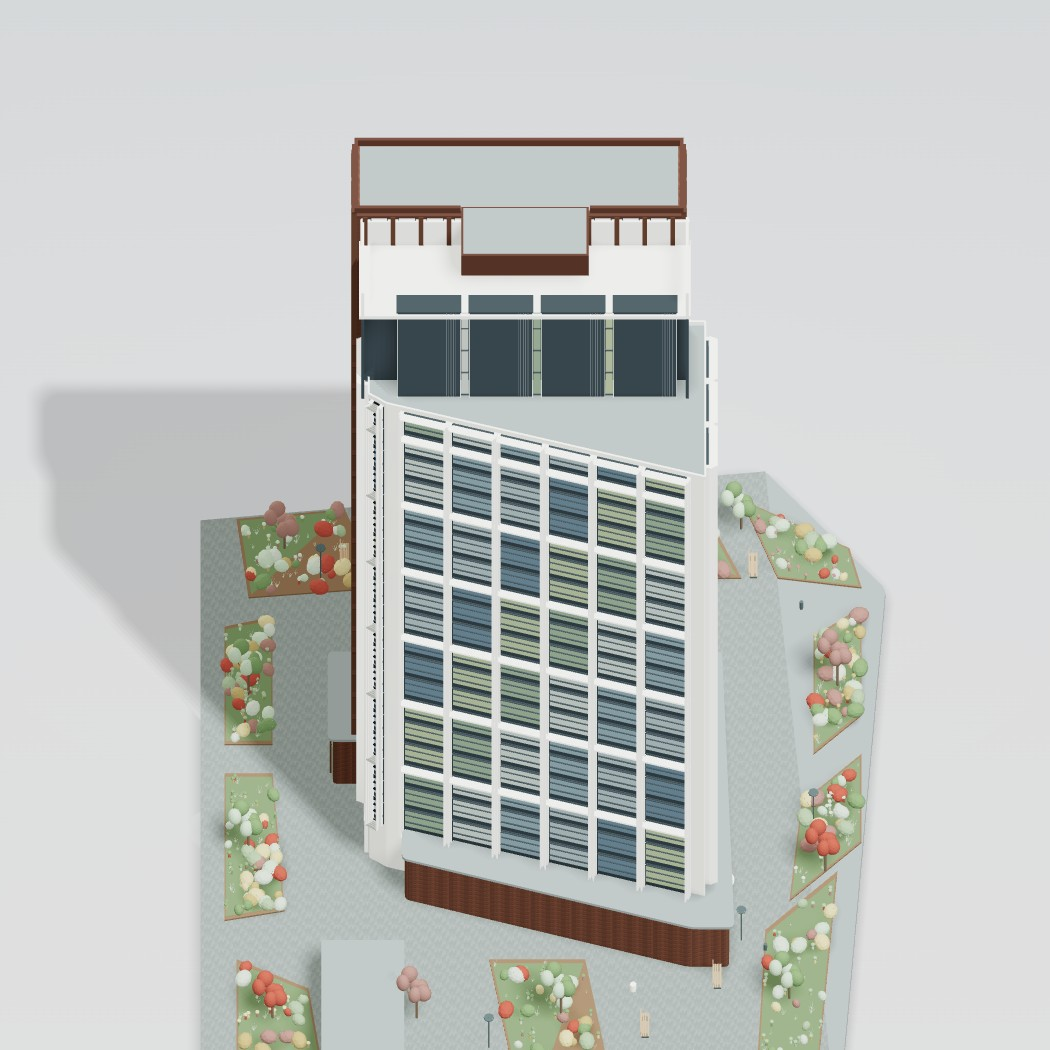
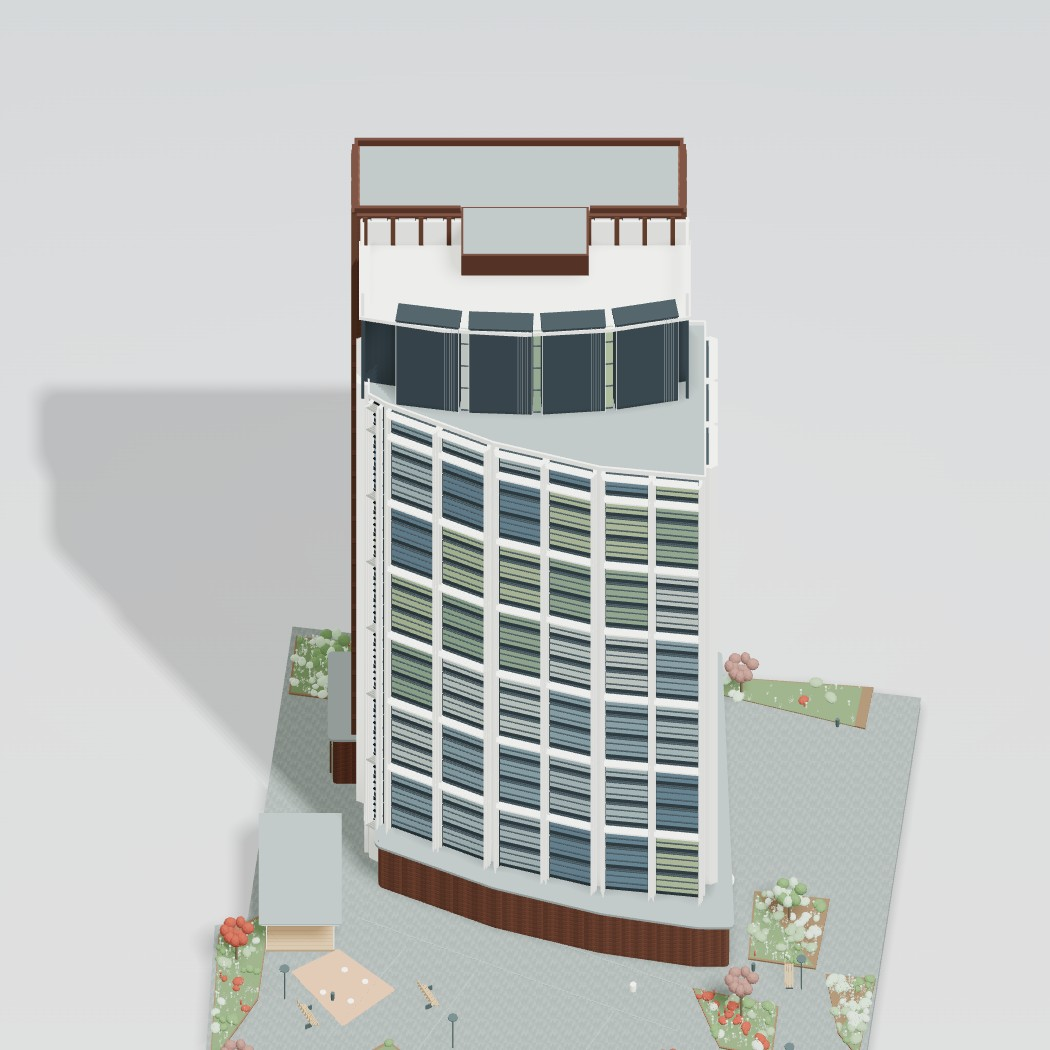
Introduce shallow facade facets, fanned upper panels and diagonal reference landscaping

Changed region(s): [[0.3048, 0.2743, 0.8838, 1.0], [0.1829, 0.4571, 0.4267, 1.0], [0.6095, 0.9752, 0.64, 1.0]]

diff --git a/assets/photo-tower-project.js b/assets/photo-tower-project.js
@@ -16,6 +16,7 @@
   const M={white:material(0xe8e8df),edge:material(0xf2f0e7),brick:material(0xffffff,{map:texture('brick'),roughness:.94}),brown:material(0x583a2e),bronze:material(0x614333),frame:material(0x3a4448),screen:material(0x3f494e),roof:material(0x899290),pave:material(0xbbc0bd,{map:texture('pave'),roughness:1}),curb:material(0x7c654c),soil:material(0x687c57),wood:material(0xaf9272),steel:material(0x52605f),light:material(0xf1f0df),trunk:material(0x73624f)};
   const glass=[0x99a9aa,0x7f949b,0xb4bdb5,0x879b82,0xa0ae87,0x647b87].map(c=>GranVisual.glass(material(c,{roughness:.32,metalness:.08})));
   const upperGlass=GranVisual.glass(material(0xd9e0da,{roughness:.28,metalness:.09}));
+  const playSurface=material(0xbd9478,{roughness:1});
   const plants=[0x6f895c,0x8ea27f,0xb4c0ad,0xa79461,0x96736a,0xa35142,0xc1b582,0xabc0a3].map(c=>material(c,{roughness:1,flatShading:true}));
   const unit=new T.BoxGeometry(1,1,1),ball=new T.IcosahedronGeometry(1,2),shrub=new T.IcosahedronGeometry(1,1),cylinder=new T.CylinderGeometry(1,1,1,8),cone=new T.ConeGeometry(1,1,6);geo.push(unit,ball,shrub,cylinder,cone);
   function stamp(G,m,x,y,z,sx,sy,sz,ry=0,q=null){let b=batches.get(G.uuid+':'+m.uuid);if(!b)batches.set(G.uuid+':'+m.uuid,b={G,m,list:[]});dummy.position.set(x,y,z);dummy.scale.set(sx,sy,sz);dummy.rotation.set(0,ry,0);if(q)dummy.quaternion.copy(q);dummy.updateMatrix();b.list.push(dummy.matrix.clone());}
@@ -28,10 +29,23 @@
   }
   function polygon(p,y,m){const G=new T.ShapeGeometry(shape(p));G.rotateX(-Math.PI/2);const a=G.attributes.position,uv=G.attributes.uv;for(let i=0;i<uv.count;i++)uv.setXY(i,a.getX(i)/2.4,a.getZ(i)/1.2);geo.push(G);const o=new T.Mesh(G,m);o.position.y=y;o.receiveShadow=true;vpm.add(o);}
   function brickBox(x,y,z,w,h,d){const G=new T.BoxGeometry(w,h,d),uv=G.attributes.uv;for(let f=0;f<6;f++){const uw=f<2?d:w,vh=f===2||f===3?d:h;for(let k=0;k<4;k++){const i=f*4+k;uv.setXY(i,uv.getX(i)*uw/2.4,uv.getY(i)*vh/1.2)}}geo.push(G);const o=new T.Mesh(G,M.brick);o.position.set(x,y,z);o.castShadow=o.receiveShadow=true;vpm.add(o);}
-  const site=[[-37,-27],[27,-27],[32,20],[20,30],[-35,26]];
+  const site=[[16.14,-19.34],[8.86,32.95],[-33.99,27.57],[-37.67,-27.14],[-14.42,-25.8],[-13.81,-23.08]];
   solid(site,-.8,.8,M.roof,.5);polygon(site,.025,M.pave);
-  const brown={x:3.5,z:-.5,w:7,d:27,f:24,y0:6.2},whitePlan=[[-8.5,-11.5],[-7.5,-13],[-.15,-13],[-.15,15],[-16,15]],FH=3.15,whiteFloors=19,whiteTop=66.05,brownTop=81.8;
-  const podium=[[0,-16],[8.8,-16],[8.8,16],[-18.7,17],[-18.7,13.5],[-11.8,-10],[0,-10]];
+  // Broad diagonal circulation and small play pad traced in the reference view.
+  const pavingJoints=[
+   [[-13.58,-13.99],[-25.23,12.66]],[[-10.62,-10.81],[-21.95,16.27]],
+   [[-25.88,-16.44],[-16.85,-10.04]],[[-29.65,-10.4],[-19.33,-4.22]],
+   [[-34.12,1.09],[-23.19,7.4]],[[-34.77,11.15],[-24.99,18.81]],
+   [[-27.26,17.68],[-29.35,27.22]]
+  ];
+  for(const [a,b] of pavingJoints){const dx=b[0]-a[0],dz=b[1]-a[1];box(M.roof,(a[0]+b[0])/2,.046,(a[1]+b[1])/2,Math.hypot(dx,dz),.025,.10,-Math.atan2(dz,dx));}
+  const playPlan=[[-19.18,-19.49],[-16.83,-15.54],[-21.02,-10.75],[-24.79,-15.17]];
+  solid(playPlan,.04,.035,playSurface,.25);
+  for(const [x,z] of [[-19,-15],[-21.3,-16.8],[-20.2,-13.3],[-22.2,-14.5]])stamp(cylinder,M.light,x,.10,z,.28,.05,.28);
+  // Three shallow facets give the white front its slight turn in plan.
+  // The brown rear bar stays straight and vertical.
+  const brown={x:3.5,z:-.5,w:7,d:27,f:24,y0:6.2},whitePlan=[[-8.5,-11.5],[-7.5,-13],[-.15,-13],[-.15,15],[-16,15],[-15,6.2],[-12.5,-2.6]],FH=3.15,whiteFloors=19,whiteTop=66.05,brownTop=81.8;
+  const podium=[[0,-16],[8.8,-16],[8.8,16],[-18.7,17],[-18.7,14],[-17.3,6.2],[-14.7,-2.6],[-10.5,-12.2],[0,-12.2]];
   solid(podium,.12,5.95,M.brick,.42);solid(podium.map(([x,z])=>[x*1.025,z*1.025]),6.12,.3,M.roof,.50);
   brickBox(brown.x,brown.y0+brown.f*FH/2,brown.z,brown.w,brown.f*FH,brown.d);
   solid(whitePlan,.12,whiteTop-.12,M.white,.18);
@@ -39,7 +53,7 @@
   polygon(whitePlan,whiteTop+.025,M.roof);
   whitePlan.forEach((a,i)=>{const b=whitePlan[(i+1)%whitePlan.length],dx=b[0]-a[0],dz=b[1]-a[1],L=Math.hypot(dx,dz);box(M.white,(a[0]+b[0])/2,whiteTop+.26,(a[1]+b[1])/2,L,.5,.18,-Math.atan2(dz,dx));});
   const brownPlan=[[0,-14],[7,-14],[7,13],[0,13]];
-  function windows(plan,floors,start,brownFacade){plan.forEach((a,i)=>{const b=plan[(i+1)%plan.length],dx=b[0]-a[0],dz=b[1]-a[1],L=Math.hypot(dx,dz),nx=dz/L,nz=-dx/L,angle=-Math.atan2(dz,dx),margin=brownFacade?.7:1.25,n=Math.max(1,Math.floor((L-2*margin)/(brownFacade?2.25:4.1))),pitch=(L-2*margin)/n;
+  function windows(plan,floors,start,brownFacade){plan.forEach((a,i)=>{const b=plan[(i+1)%plan.length],dx=b[0]-a[0],dz=b[1]-a[1],L=Math.hypot(dx,dz),nx=dz/L,nz=-dx/L,angle=-Math.atan2(dz,dx),frontFacet=!brownFacade&&i>=4,margin=brownFacade?.7:frontFacet?.22:1.25,n=frontFacet?2:Math.max(1,Math.floor((L-2*margin)/(brownFacade?2.25:4.1))),pitch=(L-2*margin)/n;
    for(let j=0;j<n;j++){const t=(margin+(j+.5)*pitch)/L,x=a[0]+dx*t,z=a[1]+dz*t,ww=pitch-(brownFacade?.95:.65);
     for(let f=0;f<floors;f++){const y=start+f*FH+FH/2,gm=brownFacade&&f>=19?upperGlass:glass[(j+Math.floor(f/3)+i)%glass.length];box(gm,x+nx*.10,y,z+nz*.10,ww,FH-.28,.14,angle);
      for(const k of [-1,1]){const px=x+dx/L*k*ww/2,pz=z+dz/L*k*ww/2;box(M.frame,px+nx*.16,y,pz+nz*.16,.055,FH-.20,.20,angle);box(M.frame,x+nx*.16,y+k*(FH-.28)/2,z+nz*.16,ww+.10,.055,.20,angle);}
@@ -78,30 +92,37 @@
   // This is an enclosed upper storey, not a canopy over an open recess.
   // Keep the dark front panels/glazed slots exposed, close the core and ends.
   const upperBase=whiteTop,upperCeiling=77.4,upperHeight=upperCeiling-upperBase;
-  box(M.screen,-2.85,upperBase+upperHeight/2,0,5.9,upperHeight,27.0);
+  const bow=z=>-1.8*(1-(z/14)**2),turn=z=>Math.atan(3.6*z/196);
+  const curvedEdge=(x,extent)=>[-extent,-7,0,7,extent].map(z=>[x+bow(z),z]);
+  solid([...curvedEdge(-5.8,13.5),[.1,13.5],[.1,-13.5]],upperBase,upperHeight,M.screen);
   for(const z of [-13.5,13.5])box(M.screen,-3.8,upperBase+upperHeight/2,z,7.8,upperHeight,.25);
-  const shoulder=[[-7.7,-13.8],[.1,-13.8],[.1,13.8],[-7.7,13.8]];
+  const shoulder=[...curvedEdge(-7.7,13.8),[.1,13.8],[.1,-13.8]];
   solid(shoulder,77.4,.45,M.white);
   box(M.white,-.30,79.5,0,.30,3.3,27.4);
   for(const z of [-13.5,13.5])box(M.white,-3.8,79.5,z,7.8,3.3,.25);
   const roofBlades=[];
   for(let j=0;j<4;j++){
-   const x=-6.65,z=-8+j*6,h=12.0,top=whiteTop+h;roofBlades.push({x,z,top});
-   box(M.screen,x,whiteTop+h/2,z,1.7,h,5.3);
-   box(M.frame,x,top+.06,z,1.78,.12,5.38);
+   const z=-8+j*6,x=-6.65+bow(z),a=turn(z),h=12.0,top=whiteTop+h;roofBlades.push({x,z,top,angle:a});
+   const panelBox=(m,lx,y,lz,w,hh,d)=>box(m,x+Math.cos(a)*lx+Math.sin(a)*lz,y,z-Math.sin(a)*lx+Math.cos(a)*lz,w,hh,d,a);
+   panelBox(M.screen,0,whiteTop+h/2,0,1.7,h,5.3);
+   panelBox(M.frame,0,top+.06,0,1.78,.12,5.38);
    // Broad dark planes with a cluster of thin vertical ribs on one edge.
-   for(const off of [1.45,1.65,1.85,2.05,2.25])box(M.roof,x-.88,whiteTop+h/2,z+off,.035,h,.035);
-   for(const side of [-1,1])box(M.edge,x-.94,whiteTop+h/2,z+side*2.62,.10,h,.055);
-   if(j<3){const gz=z+3;box(glass[(j+2)%glass.length],x-.75,whiteTop+h/2,gz,.10,h-.3,.62);for(let y=whiteTop+.3;y<top;y+=3.15)box(M.frame,x-.84,y,gz,.12,.065,.64);}
+   for(const off of [1.45,1.65,1.85,2.05,2.25])panelBox(M.roof,-.88,whiteTop+h/2,off,.035,h,.035);
+   for(const side of [-1,1])panelBox(M.edge,-.94,whiteTop+h/2,side*2.62,.10,h,.055);
+   if(j<3){const gz=z+3,gx=-7.4+bow(gz),ga=turn(gz);box(glass[(j+2)%glass.length],gx,whiteTop+h/2,gz,.10,h-.3,.62,ga);for(let y=whiteTop+.3;y<top;y+=3.15)box(M.frame,gx-.09,y,gz,.12,.065,.64,ga);}
   }
   // Angular planted beds, cut by the paved circulation network.
   const beds=[
-   [[-35,-24],[-18,-24],[-21,-18],[-35,-16]], [[-35,-14],[-31,-16],[-31,-6],[-35,-3]],
-   [[-35,0],[-18,-3],[-18,5],[-35,8]], [[-35,19],[-15,20],[-9,26],[-34,24]],
-   [[-12,22],[-2,23],[3,28],[-6,28]], [[3,24],[15,24],[18,28],[7,28]],
-   [[21,21],[29,18],[24,27],[20,28]], [[21,5],[29,2],[30,14],[21,18]],
-   [[21,-9],[29,-12],[30,-1],[21,2]], [[19,-23],[27,-24],[28,-15],[20,-12]],
-   [[-14,-25],[1,-25],[1,-21],[-13,-20]], [[4,-25],[16,-25],[17,-21],[4,-21]]
+   [[-15.45,-25.51],[-13.04,-21.16],[-22.04,-22.19],[-28.98,-26.24]],
+   [[-30.76,-26.07],[-29.21,-21.01],[-35.65,-17.62],[-36.88,-26.84]],
+   [[-29.66,-16.17],[-26.33,-11.39],[-32.57,-4.5],[-35.98,-6.02],[-36.43,-15.09]],
+   [[-32.51,-3.55],[-29.41,1.28],[-33.31,7.14],[-35.4,4.93],[-36.04,-4.12]],
+   [[-33.09,7.51],[-28.64,12.15],[-32.85,19.07],[-34.62,18.71],[-35.49,6.45]],
+   [[-20.9,13.93],[-22.82,21.1],[-28.05,20.55],[-26.97,16.14]],
+   [[-11.03,19.07],[-11.84,25.37],[-18.95,24.18],[-17.92,18.55]],
+   [[15,-19.05],[14.07,-12.55],[8.1,-12.79],[9.2,-19.66]],
+   [[13.2,-10.5],[9.8,29],[5.6,28.3],[9.2,16],[10.2,-10.5]],
+   [[-25.5,26],[-19.5,25],[-20,29.2],[-28,27.7]]
   ];
   function inside(x,z,p){let yes=false;for(let i=0,j=p.length-1;i<p.length;j=i++){const a=p[i],b=p[j];if((a[1]>z)!==(b[1]>z)&&x<(b[0]-a[0])*(z-a[1])/(b[1]-a[1])+a[0])yes=!yes;}return yes;}
   let seed=292;const rnd=()=>{seed=seed*16807%2147483647;return(seed-1)/2147483646};
@@ -110,19 +131,19 @@
   const blades=new T.BufferGeometry();blades.setAttribute('position',new T.Float32BufferAttribute(bladePos,3));blades.computeVertexNormals();geo.push(blades);const grass=material(0xb8c1ae,{side:T.DoubleSide,roughness:1});
   beds.forEach((p,bi)=>{solid(p,.04,.18,M.curb);const cx=p.reduce((s,v)=>s+v[0],0)/p.length,cz=p.reduce((s,v)=>s+v[1],0)/p.length,inner=p.map(([x,z])=>[cx+(x-cx)*.95,cz+(z-cz)*.95]);polygon(inner,.23,M.soil);
    const xs=p.map(v=>v[0]),zs=p.map(v=>v[1]),xmin=Math.min(...xs),xmax=Math.max(...xs),zmin=Math.min(...zs),zmax=Math.max(...zs);
-   for(let i=0;i<125;i++){const x=xmin+rnd()*(xmax-xmin),z=zmin+rnd()*(zmax-zmin);if(!inside(x,z,inner))continue;const sc=.35+rnd()*.55;
-    if(i%3===0)stamp(blades,grass,x,.24,z,sc*1.4,sc*1.7,sc*1.4,rnd()*Math.PI*2);
-    else if(i%3===1)stamp(shrub,plants[(bi+i)%plants.length],x,.35+sc*.35,z,sc,.25+sc*.5,sc*.8,rnd()*6.28);
-    else {stamp(cone,plants[(bi+i)%plants.length],x,.5,z,.15,.55+rnd()*.35,.15);stamp(shrub,plants[(bi+6)%plants.length],x,.82,z,.19,.12,.18);}
+   for(let i=0;i<320;i++){const x=xmin+rnd()*(xmax-xmin),z=zmin+rnd()*(zmax-zmin);if(!inside(x,z,inner))continue;const sc=.28+rnd()*.35,patch=(Math.floor((x-cx)/1.8)+Math.floor((z-cz)/1.8)+bi*3+64)%8;
+    if(i%5<3)stamp(blades,grass,x,.24,z,sc*1.5,sc*1.9,sc*1.5,rnd()*Math.PI*2);
+    else if(i%5===3)stamp(shrub,plants[[0,1,2,7,0,2,5,1][patch]],x,.27+sc*.3,z,sc,.14+sc*.35,sc*.8,rnd()*6.28);
+    else {const hh=.4+rnd()*.35;stamp(cone,plants[patch===6?5:7],x,.24+hh/2,z,.10,hh,.10);stamp(shrub,plants[patch===6?5:2],x,.24+hh,z,.11,.07,.11);}
    }
   });
   // Mixed green and autumn trees with visible trunks/branches and multiple crown masses.
-  const trees=[[-24,-21],[-24,-9],[-24,3],[-22,22],[-9,25],[10,26],[26,18],[25,8],[25,-5],[24,-20],[-7,-23],[9,-23]];
+  const trees=[[-18,-24],[-31,-24],[-33,-13],[-33,-1],[-32,12],[-24,18],[-14,22],[11,-16],[11,2],[9,18]];
   trees.forEach(([x,z],i)=>{const h=3.0+(i%3)*.65;branch([x,.25,z],[x,h,z],.10);
-   for(let j=0;j<7;j++){const a=j*2.399,rad=.45+(j%3)*.35,ex=x+Math.cos(a)*rad,ez=z+Math.sin(a)*rad,ey=h+(j%3)*.5;branch([x,h*.65,z],[ex,ey,ez],.035);stamp(ball,plants[i%4===0?5:(i%4===1?4:(j%2?0:7))],ex,ey+.45,ez,.55+(j%2)*.16,.85,.62,j);}
+   for(let j=0;j<12;j++){const a=j*2.399,rad=.35+(j%3)*.32,ex=x+Math.cos(a)*rad,ez=z+Math.sin(a)*rad,ey=h+(j%3)*.45;branch([x,h*.65,z],[ex,ey,ez],.025);stamp(shrub,plants[i%4===0?5:(i%4===1?4:(j%2?0:7))],ex,ey+.3,ez,.42+(j%2)*.13,.60,.47,j);}
   });
   // Pergola/play pavilion: slim posts, layered roof, timber platform, hanging white rings.
-  const px=-24.5,pz=-13.5;
+  const px=-11.5,pz=-18.7;
   for(let i=0;i<28;i++)box(M.wood,px-5.4+i*.4,.18,pz,.37,.25,5.7);
   for(const x of [px-5.5,px,px+5.5])for(const z of [pz-2.8,pz+2.8])box(M.light,x,2.05,z,.09,3.8,.09);
   for(const x of [px-2.8,px+2.8]){box(M.roof,x,4.02,pz,5.8,.10,6.9);box(M.light,x,3.91,pz,5.8,.08,6.6);}
@@ -133,12 +154,12 @@
   for(const [x,z] of [[-14,13],[-12,15],[-10,17]])stamp(ball,M.light,x,.4,z,.65,.35,.45);
   for(const [x,z] of [[-28,14],[-17,15],[-21,9]])stamp(cylinder,M.light,x,.45,z,.28,.8,.28);
   function bench(x,z,angle=0){for(let j=0;j<5;j++)box(M.wood,x,.65,z+(j-2)*.14,2.4,.08,.12,angle);for(const d of [-.9,.9])box(M.steel,x+d,.35,z,.08,.6,.6,angle);for(let j=0;j<3;j++)box(M.wood,x,1.0+j*.13,z-.36,2.4,.10,.08,angle);}
-  bench(-20,16);bench(-25,10);bench(22,19);bench(23,-15);
-  for(const [x,z] of [[-16,18],[-27,-3],[21,-17],[22,12],[-4,24]]){stamp(cylinder,M.steel,x,2.3,z,.055,4.3,.055);stamp(cylinder,M.steel,x,4.46,z,.43,.075,.43);stamp(cylinder,M.light,x,4.40,z,.35,.045,.35);}
+  bench(-24,-18,.5);bench(-22,-8,.5);bench(-20,22);bench(9,-9);
+  for(const [x,z] of [[-22,-20],[-27,-6],[-21,23],[10,14],[-30,22]]){stamp(cylinder,M.steel,x,2.3,z,.055,4.3,.055);stamp(cylinder,M.steel,x,4.46,z,.43,.075,.43);stamp(cylinder,M.light,x,4.40,z,.35,.045,.35);}
   // Fine paving joints at the entrance plaza and low cylindrical site furniture.
-  for(const [x,z] of [[-16,8],[-17,20],[20,-7],[18,23]])stamp(cylinder,M.steel,x,.5,z,.16,.95,.16);
+  for(const [x,z] of [[-22,-16],[-19,19],[10,-8],[6,26]])stamp(cylinder,M.steel,x,.5,z,.16,.95,.16);
   batches.forEach(({G,m,list})=>{const mesh=new T.InstancedMesh(G,m,list.length);list.forEach((matrix,i)=>mesh.setMatrixAt(i,matrix));mesh.instanceMatrix.needsUpdate=true;mesh.castShadow=mesh.receiveShadow=true;vpm.add(mesh)});
-  root.userData.geo=geo;root.userData.materials=materials;root.userData.reference={name:'Project 2 from supplied photos',estimated:true,brownWhiteTower:true,whitePortalMouldings:true,brickPodium:true,continuousPodium:true,raisedRoofShoulder:true,projectingServiceRoom:true,roofScreen:true,roofBlades,bladeAxis:'z',obliqueWhiteFront:true,whitePlan,portalDepth:.94,upperBrownBays:true,podiumOverhang:1.065,pergola:true,hangingRings:2,mixedPlanting:true};
+  root.userData.geo=geo;root.userData.materials=materials;root.userData.reference={name:'Project 2 from supplied photos',estimated:true,brownWhiteTower:true,whitePortalMouldings:true,brickPodium:true,continuousPodium:true,raisedRoofShoulder:true,projectingServiceRoom:true,roofScreen:true,roofBlades,bladeAxis:'z',obliqueWhiteFront:true,whitePlan,facetedWhiteFront:true,frontFacets:3,fannedUpperPanels:true,diagonalLandscape:true,site,playPlan,portalDepth:.94,upperBrownBays:true,podiumOverhang:1.065,pergola:true,hangingRings:2,mixedPlanting:true};
   return{root,g,radius:Math.max(Math.hypot(63,57)/2,82.6*.95),maxH:82.6};
  }
  global.GranPhotoTower={build};

diff --git a/review/babushkinskaya-refinement/README.md b/review/babushkinskaya-refinement/README.md
@@ -1,8 +1,10 @@
-# Второй проект — реконструкция по фотографиям
+# Второй проект — лёгкий разворот фасада и ландшафт по фото
 
 Основа публикации: cda1dd62a7f264b2f23b8900a605ac57239e6ac4. Вторая карточка, ул. Баб****ая; третий проект не заменяется. Кадры и проверки относятся к коммиту, содержащему этот файл; полный SHA указан в PR #28.
 
-По приоритетному виду сверху перестроены тонкая коричневая пластина с длинной узкой кровлей, выступающий центральный технический объём, поднятое белое П-образное обрамление, сплошные тёмные боковые стены верхнего объёма (тот же материал, что соседние тёмные секции) и четыре широкие тёмные секции вдоль коричневого фасада. Между ними — узкие остеклённые щели; перед ними — открытая клиновидная кровля. Белый передний фасад диагональный по всей длине, с шестью широкими оконными осями и глубокими порталами через три этажа. Кирпичный стилобат собран единым контуром с диагональным фасадом и нависающим серым покрытием. Уточнены входы, посадки и положение павильона с подвесными кольцами.
+По приоритетному виду сверху перестроены тонкая коричневая пластина с длинной узкой кровлей, выступающий центральный технический объём, поднятое белое П-образное обрамление, сплошные тёмные боковые стены верхнего объёма (тот же материал, что соседние тёмные секции) и четыре широкие тёмные секции вдоль коричневого фасада. Между ними — узкие остеклённые щели; перед ними — открытая клиновидная кровля. Белый передний фасад состоит из трёх неглубоких граней, которые дают лёгкий выпуклый разворот в плане. Шесть широких оконных осей и глубокие порталы через три этажа следуют граням. Четыре верхние тёмные секции развёрнуты небольшим веером; коричневый задний корпус остаётся прямым и вертикальным. Кровля и единый кирпичный стилобат повторяют новый контур.
+
+Ландшафт приближен к видимому рисунку на фото: асимметричный участок с боковым уступом, диагональные цветники, широкие проходы и швы мощения. Павильон с подвесными кольцами смещён к боковой площадке, рядом добавлено небольшое покрытие с круглыми элементами. Посадки мельче и плотнее, деревья и мебель расставлены вдоль проходов. Закрывающие стены верхней части остаются тёмными.
 
 Тексты, показатели, остальные проекты, штатная камера, освещение, вращение и разрешение сайта сохранены. Размеры и скрытые детали восстановлены оценочно по фотографиям; обмерная точность не заявляется.
 
@@ -16,7 +18,7 @@
 
 ## Проверки и воспроизведение
 
-npm test проходит: геометрия, навигация, калькулятор, проектный просмотрщик, резервный режим при недоступном WebGL и жизненный цикл сцен. Геометрические лучи проверяют толщину коричневого корпуса, четыре верхних секции, поднятое белое обрамление, выступ технического объёма, закрытые торцы верхнего этажа с обеих сторон, свободную клиновидную кровлю и направление диагонального фасада. Второй проект: 205 157 треугольник, 77 mesh. Это счётчики геометрии, не измерение FPS на компьютере пользователя.
+npm test проходит: геометрия, навигация, калькулятор, проектный просмотрщик, резервный режим при недоступном WebGL и жизненный цикл сцен. Геометрические лучи проверяют толщину коричневого корпуса, четыре верхних секции, поднятое белое обрамление, выступ технического объёма, закрытые торцы верхнего этажа с обеих сторон, свободную клиновидную кровлю и направление фасада и разные нормали его трёх граней. Второй проект: 215 519 треугольников, 63 mesh. Сохранён бюджет менее 300 000 треугольников и 100 mesh. Это счётчики геометрии, не измерение FPS на компьютере пользователя.
 
 В Chromium сняты дневные и ночной ракурсы; ошибок JavaScript и переполнения при ширине 390 px нет. Playwright и Chromium нужны только для воспроизведения снимков, не для работы сайта. Запустить статический сервер из корня репозитория на порту 8052, затем node review/babushkinskaya-refinement/browser.cjs и node review/babushkinskaya-refinement/reference-view.cjs. Другой адрес задаётся через GRAN_REVIEW_URL. Параметры перспективной камеры — reference-camera.json.
 

diff --git a/AGENTS.md b/AGENTS.md
@@ -75,3 +75,5 @@
 - Уточнение после согласования формы второго проекта: верхняя часть между белой кровлей и поднятым обрамлением — полноценный закрытый объём. Не оставлять открытый боковой проём под обрамлением; там сплошная стена.
 
 - Закрывающие стены верхнего объёма второго проекта должны быть тёмными, из того же материала, что четыре соседних блока надстройки; белое обрамление сохранять.
+
+- После остановки публикации пользователь попросил пробный вариант второго проекта с лёгким разворотом/выгибом по фото: три неглубокие грани белого фасада, небольшой веер верхних тёмных секций, ландшафт с диагональными дорожками и цветниками. Ранее данное «Публикуй» было остановлено; новый вариант показывать отдельно и не публиковать без нового согласования.
